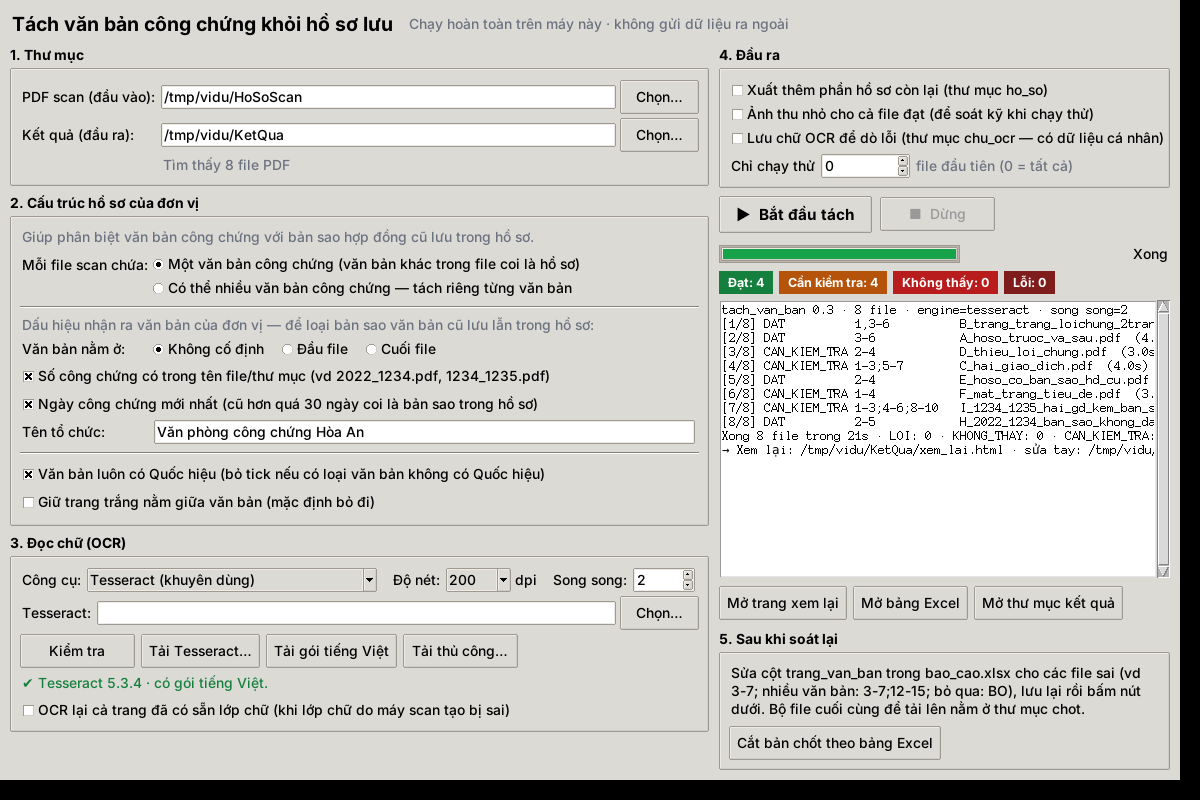
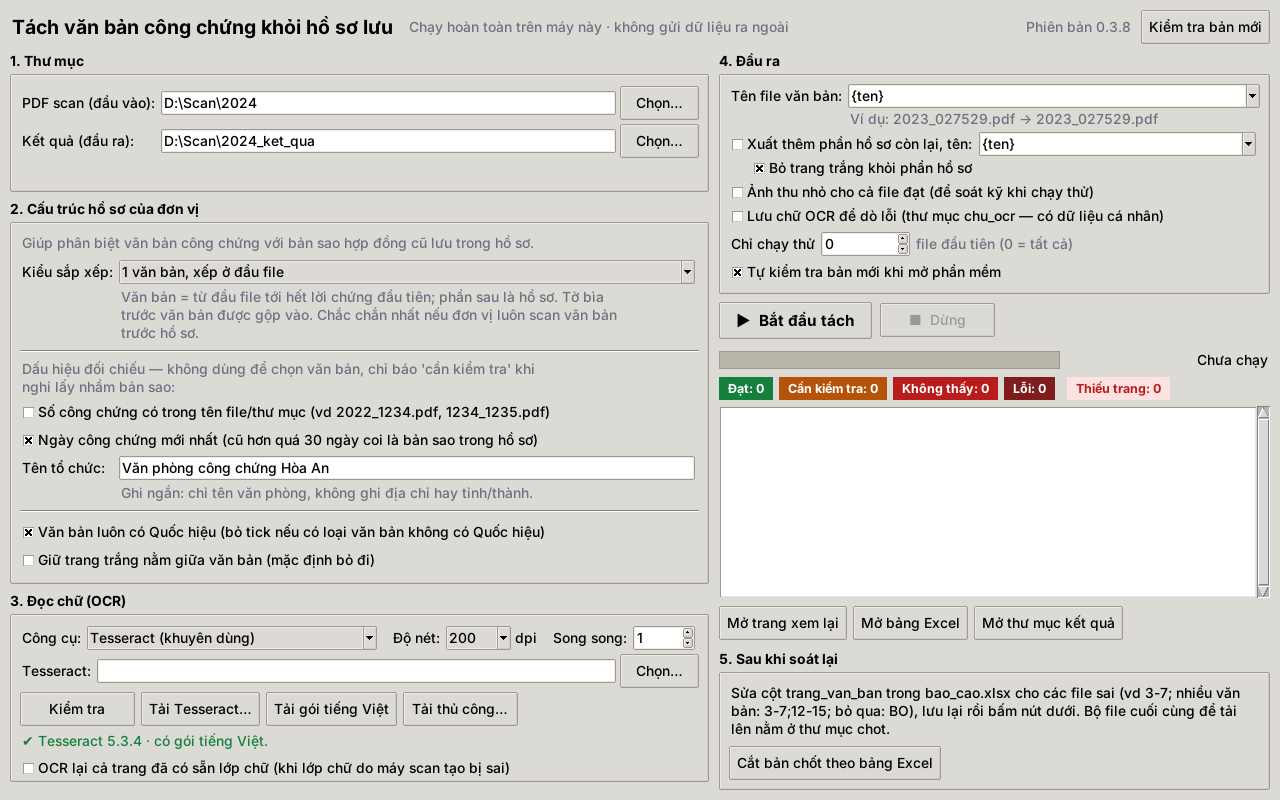
Chọn "kiểu sắp xếp" thay cho hai tuỳ chọn rời; nhiều văn bản ở đầu/cuối cắt theo ranh giới
- Giao diện: một ô "Kiểu sắp xếp" với 6 kiểu (1/nhiều văn bản × đầu file /
  cuối file / chấm điểm), kèm mô tả cách cắt của từng kiểu; dòng dấu hiệu đổi
  theo kiểu (chấm điểm hay chỉ đối chiếu). Cấu hình cũ tự khớp sang kiểu tương
  ứng, CLI giữ nguyên
- Nhiều văn bản + đầu file: giữ mọi văn bản từ đầu file tới trang hồ sơ rõ ràng
  đầu tiên, sau đó là hồ sơ (trước đây chỉ ±2 điểm; trang mờ/ít chữ xen giữa
  có thể làm mất văn bản thật). Cuối file: ngược lại. Trang lẻ không lời chứng
  ngay trước văn bản được gộp như tờ bìa
- Đối chiếu: văn bản giữ mà có dấu hiệu bản sao, hoặc văn bản bỏ mà số CC khớp
  tên file -> cần kiểm tra
- Tự kiểm tra thêm kiểu nhiều văn bản ở đầu file; cập nhật hướng dẫn, ảnh giao diện

Claude-Session: https://claude.ai/code/session_01XfeXJAduiAykSQTqQvTMCU

diff --git a/giao_dien.py b/giao_dien.py
@@ -31,6 +31,31 @@ F_CAU_HINH = Path.home() / ".tach_van_ban_cauhinh.json"
 
 ENGINE = {"Tesseract (khuyên dùng)": "tesseract", "Screen AI của Chrome (thử nghiệm)": "screenai"}
 VI_TRI = {"Không cố định": "tu_dong", "Đầu file": "dau", "Cuối file": "cuoi"}
+# Kiểu sắp xếp hồ sơ = (mỗi file một/nhiều văn bản, vị trí văn bản), kèm mô tả cách cắt
+KIEU_SAP_XEP = {
+    "1 văn bản, xếp ở đầu file": (
+        "mot", "Đầu file",
+        "Văn bản = từ đầu file tới hết lời chứng đầu tiên; phần sau là hồ sơ. Tờ bìa trước văn bản được gộp vào. "
+        "Chắc chắn nhất nếu đơn vị luôn scan văn bản trước hồ sơ."),
+    "Nhiều văn bản, xếp liền nhau ở đầu file": (
+        "nhieu", "Đầu file",
+        "Giữ mọi văn bản từ đầu file cho tới trang hồ sơ rõ ràng đầu tiên (phiếu yêu cầu, CCCD, sổ đỏ, bản sao…); "
+        "từ đó trở xuống là hồ sơ. Mỗi văn bản ra 1 file (…__vb1, …__vb2)."),
+    "1 văn bản, xếp ở cuối file": (
+        "mot", "Cuối file",
+        "Văn bản = văn bản có lời chứng cuối cùng; phía trước là hồ sơ."),
+    "Nhiều văn bản, xếp liền nhau ở cuối file": (
+        "nhieu", "Cuối file",
+        "Giữ mọi văn bản từ cuối file ngược lên tới trang hồ sơ rõ ràng gần nhất; phía trước là hồ sơ."),
+    "1 văn bản, vị trí không cố định (chấm điểm)": (
+        "mot", "Không cố định",
+        "Không biết văn bản nằm đâu: chấm điểm theo các dấu hiệu bên dưới để chọn 1 văn bản chính, các văn bản "
+        "khác để ở hồ sơ."),
+    "Nhiều văn bản, xếp xen kẽ với hồ sơ (chấm điểm)": (
+        "nhieu", "Không cố định",
+        "Văn bản và hồ sơ xen kẽ (VB1, hồ sơ 1, VB2…): chấm điểm theo các dấu hiệu bên dưới, giữ văn bản của đơn "
+        "vị, loại bản sao văn bản cũ lưu trong hồ sơ."),
+}
 MAU_VB = ["{ten}", "{ten}_VB", "{nam}_{so_cc}", "{nam}_{so_cc}_{loai}", "{so_cc}_{loai}", "{ngay}_{so_cc}"]
 MAU_HS = ["{ten}", "{ten}_HS", "{nam}_{so_cc}_HS", "{so_cc}_HS"]
 NHAN_TT = {"DAT": ("Đạt", "#15803d"), "CAN_KIEM_TRA": ("Cần kiểm tra", "#b45309"),
@@ -110,6 +135,7 @@ class UngDung(tk.Tk):
             vao=tk.StringVar(), ra=tk.StringVar(),
             mot_van_ban=tk.StringVar(value="mot" if md["mot_van_ban"] else "nhieu"),
             vi_tri=tk.StringVar(value="Không cố định"),
+            kieu_sap_xep=tk.StringVar(),  # chỉ để hiển thị: suy ra từ mot_van_ban + vi_tri
             so_cc_trong_ten=tk.BooleanVar(value=md["so_cc_trong_ten"]),
             uu_tien_ngay_moi=tk.BooleanVar(value=md["uu_tien_ngay_moi"]),
             ten_to_chuc=tk.StringVar(value=md["ten_to_chuc"]),
@@ -203,35 +229,21 @@ class UngDung(tk.Tk):
         ttk.Label(f, text="Giúp phân biệt văn bản công chứng với bản sao hợp đồng cũ lưu trong hồ sơ.",
                   style="Goiy.TLabel").grid(row=0, column=0, columnspan=3, sticky="w", pady=(0, 4))
 
-        ttk.Label(f, text="Mỗi file scan chứa:").grid(row=1, column=0, sticky="nw", pady=2)
-        r = ttk.Frame(f)
-        r.grid(row=1, column=1, columnspan=2, sticky="w")
-        a = ttk.Radiobutton(r, text="Một văn bản công chứng (văn bản khác trong file coi là hồ sơ)",
-                            variable=self.v["mot_van_ban"], value="mot")
-        a.pack(anchor="w")
-        b = ttk.Radiobutton(r, text="Có thể nhiều văn bản công chứng — tách riêng từng văn bản",
-                            variable=self.v["mot_van_ban"], value="nhieu")
-        b.pack(anchor="w")
-        GoiY(a, "Thường gặp: 1 file = 1 số công chứng. Nếu file có nhiều văn bản, công cụ chấm điểm theo các "
-                "dấu hiệu bên dưới để chọn 1 văn bản chính; phần còn lại để ở hồ sơ.")
-        GoiY(b, "Dùng khi đơn vị scan nhiều giao dịch vào chung 1 file. Mỗi văn bản được cắt thành file riêng "
-                "(…__vb1.pdf, …__vb2.pdf). Văn bản có dấu hiệu là bản sao lưu trong hồ sơ (theo các ô bên dưới) "
-                "bị loại ra.")
-
-        ttk.Separator(f).grid(row=2, column=0, columnspan=3, sticky="ew", pady=6)
-        ttk.Label(f, text="Dấu hiệu nhận ra văn bản của đơn vị — để loại bản sao văn bản cũ lưu lẫn trong hồ sơ:",
-                  style="Goiy.TLabel").grid(row=3, column=0, columnspan=3, sticky="w")
-        ttk.Label(f, text="Văn bản nằm ở:").grid(row=4, column=0, sticky="w", pady=2)
-        r = ttk.Frame(f)
-        r.grid(row=4, column=1, columnspan=2, sticky="w")
-        for ten in VI_TRI:
-            w = ttk.Radiobutton(r, text=ten, variable=self.v["vi_tri"], value=ten)
-            w.pack(side="left", padx=(0, 12))
-            GoiY(w, "Một văn bản/file + Đầu file: văn bản = từ đầu file tới hết lời chứng đầu tiên, phần sau là hồ sơ "
-                    "(Cuối file: văn bản có lời chứng cuối cùng). Cách chắc nhất nếu đơn vị luôn scan văn bản trước.\n"
-                    "Nhiều văn bản/file: chỉ giữ các văn bản xếp liền nhau ở đầu (hoặc cuối) file; văn bản nằm sau "
-                    "trang hồ sơ bị coi là bản sao. Chỉ chọn khi đơn vị luôn xếp hết văn bản lên trước (hoặc ra sau) "
-                    "hồ sơ — nếu xếp xen kẽ (VB1, hồ sơ 1, VB2, hồ sơ 2) thì để Không cố định.")
+        ttk.Label(f, text="Kiểu sắp xếp:").grid(row=1, column=0, sticky="w", pady=2)
+        cb = ttk.Combobox(f, textvariable=self.v["kieu_sap_xep"], values=list(KIEU_SAP_XEP), state="readonly")
+        cb.grid(row=1, column=1, columnspan=2, sticky="ew", padx=4, pady=2)
+        cb.bind("<<ComboboxSelected>>", self._chon_kieu_sap_xep)
+        GoiY(cb, "Đơn vị xếp văn bản và hồ sơ trong file scan thế nào. Biết chắc văn bản luôn ở đầu (hoặc cuối) "
+                 "file thì chọn kiểu đó: công cụ chỉ cần tìm ranh giới văn bản / hồ sơ, chính xác hơn chấm điểm. "
+                 "Không chắc hoặc xếp xen kẽ thì chọn kiểu chấm điểm.")
+        self.lb_kieu = ttk.Label(f, text="", style="Goiy.TLabel", wraplength=520, justify="left")
+        self.lb_kieu.grid(row=2, column=1, columnspan=2, sticky="w", padx=4)
+        ttk.Separator(f).grid(row=3, column=0, columnspan=3, sticky="ew", pady=6)
+        self.lb_dau_hieu = ttk.Label(f, text="", style="Goiy.TLabel", wraplength=540, justify="left")
+        self.lb_dau_hieu.grid(row=4, column=0, columnspan=3, sticky="w")
+        for k in ("mot_van_ban", "vi_tri"):
+            self.v[k].trace_add("write", lambda *a: self._hien_kieu_sap_xep())
+        self._hien_kieu_sap_xep()
         w = ttk.Checkbutton(f, text="Số công chứng có trong tên file/thư mục (vd 2022_1234.pdf, 1234_1235.pdf)",
                             variable=self.v["so_cc_trong_ten"])
         w.grid(row=5, column=0, columnspan=3, sticky="w", pady=2)
@@ -259,6 +271,22 @@ class UngDung(tk.Tk):
         w = ttk.Checkbutton(f, text="Giữ trang trắng nằm giữa văn bản (mặc định bỏ đi)", variable=self.v["giu_trang_trang"])
         w.grid(row=11, column=0, columnspan=3, sticky="w", pady=2)
         GoiY(w, "Bật nếu cần giữ đúng số tờ như bản scan (vd scan 2 mặt có mặt sau trắng).")
+
+    def _chon_kieu_sap_xep(self, _e=None):
+        mot, vi_tri, _ = KIEU_SAP_XEP[self.v["kieu_sap_xep"].get()]
+        self.v["mot_van_ban"].set(mot)
+        self.v["vi_tri"].set(vi_tri)
+
+    def _hien_kieu_sap_xep(self):
+        hien = (self.v["mot_van_ban"].get(), self.v["vi_tri"].get())
+        ten = next((k for k, (m, vt, _) in KIEU_SAP_XEP.items() if (m, vt) == hien), "")
+        self.v["kieu_sap_xep"].set(ten)
+        self.lb_kieu.config(text=KIEU_SAP_XEP[ten][2] if ten else "")
+        cham_diem = hien[1] == "Không cố định"
+        self.lb_dau_hieu.config(text=(
+            "Dấu hiệu nhận ra văn bản của đơn vị — dùng để chấm điểm, loại bản sao văn bản cũ lưu lẫn trong hồ sơ:"
+            if cham_diem else
+            "Dấu hiệu đối chiếu — không dùng để chọn văn bản, chỉ báo 'cần kiểm tra' khi nghi lấy nhầm bản sao:"))
 
     def _khung_ocr(self, cha):
         f = ttk.LabelFrame(cha, text="3. Đọc chữ (OCR)", padding=8)
@@ -765,7 +793,7 @@ class UngDung(tk.Tk):
         except (OSError, ValueError):
             return
         for k, gt in d.items():
-            if k in self.v:
+            if k in self.v and k != "kieu_sap_xep":
                 try:
                     self.v[k].set(gt)
                 except tk.TclError:
@@ -824,6 +852,13 @@ def tu_kiem_tra(thu_muc: str) -> int:
         nhat_ky.append(f"Văn bản ở đầu file: C={vb_dau.get('C')}, I={vb_dau.get('I')}, A={vb_dau.get('A')}")
         if vb_dau.get("C") != ("DAT", "1-3") or vb_dau.get("I") != ("DAT", "1-3") or vb_dau.get("A") != ("DAT", "3-6"):
             thieu.append(f"tuỳ chọn văn bản ở đầu file: {vb_dau}")
+        # "Nhiều văn bản xếp liền nhau ở đầu file": giữ các văn bản tới trang hồ sơ rõ ràng đầu tiên
+        kq_nd = tvb.chay_tach(goc / "scan", goc / "ket_qua", dict(cfg, vi_tri="dau", mot_van_ban=False),
+                              so_luong=2, log=lambda s: None)
+        vb_nd = {r["duong_dan"][0]: (r["trang_thai"], r["trang_van_ban"]) for r in kq_nd}
+        nhat_ky.append(f"Nhiều văn bản ở đầu file: I={vb_nd.get('I')}, C={vb_nd.get('C')}, E={vb_nd.get('E')}")
+        if vb_nd.get("I") != ("DAT", "1-3;4-6") or vb_nd.get("C") != ("DAT", "1-3") or vb_nd.get("E") != ("DAT", "2-4"):
+            thieu.append(f"kiểu nhiều văn bản ở đầu file: {vb_nd}")
         dat = len(kq) == 17 and not loi and not thieu and not sai_trang
         if sai_trang:
             thieu.append(f"kiểm tra số trang sai ở {sai_trang}")

diff --git a/tach_van_ban.py b/tach_van_ban.py
@@ -507,6 +507,40 @@ def cat_theo_vi_tri(doan: list[dict], trang: list[dict], vt: str) -> tuple[int, 
     return k, tt, cb
 
 
+def khoi_theo_vi_tri(doan: list[dict], trang: list[dict], vt: str) -> tuple[list[int], list[str]]:
+    """Chế độ nhiều văn bản + các văn bản xếp liền nhau ở đầu (hoặc cuối) file: giữ mọi văn bản từ đầu file cho
+    tới trang hồ sơ RÕ RÀNG đầu tiên (phiếu yêu cầu, CCCD, sổ đỏ, bản sao…) nằm sau một văn bản; từ đó trở đi là
+    hồ sơ. Trang hồ sơ rõ ràng ở đầu file (trước văn bản đầu tiên) không tính là ranh giới.
+    Văn bản chỉ có 1 trang và không có lời chứng nằm ngay trước văn bản kế tiếp được gộp vào đó (tờ bìa).
+    Sửa doan tại chỗ; trả (chỉ số các văn bản giữ, thông tin)."""
+    n = len(doan)
+    thu_tu = list(range(n)) if vt == "dau" else list(range(n - 1, -1, -1))
+    giu = [thu_tu[0]]
+    for a, b in zip(thu_tu, thu_tu[1:]):
+        tu, toi = sorted((max(doan[a]["trang"]), min(doan[b]["trang"]))) if vt == "dau" else \
+            sorted((max(doan[b]["trang"]), min(doan[a]["trang"])))
+        if any(trang[i]["nhan"] == "HS" and trang[i]["manh"] for i in range(tu + 1, toi)):
+            break
+        giu.append(b)
+    giu.sort()
+    # tờ bìa / trang tiêu đề lẻ không có lời chứng -> gộp vào văn bản ngay sau
+    for x, y in zip(giu, giu[1:]):
+        d = doan[x]
+        if not d["co_lc"] and sum(trang[i]["nhan"] != "TT" for i in d["trang"]) == 1 and doan[y].get("bia") is None:
+            b = min(i for i in d["trang"] if trang[i]["nhan"] != "TT")
+            doan[y]["trang"] = sorted(set(doan[y]["trang"]) | {b})
+            doan[y]["bia"] = b
+            doan[y]["co_md"] = doan[y]["co_md"] or trang[b]["nhan"] == "MD"
+            trang[b].update(bia=True, ly_do="trang lẻ nằm trước văn bản (coi như tờ bìa)")
+            d["trang"] = []
+    giu = [k for k in giu if doan[k]["trang"]]
+    tt = []
+    if len(giu) < n:
+        tt.append(f"theo kiểu 'nhiều văn bản ở {'đầu' if vt == 'dau' else 'cuối'} file': giữ {len(giu)} văn bản liền "
+                  f"nhau, {n - len(giu)} văn bản {'sau' if vt == 'dau' else 'trước'} trang hồ sơ coi là hồ sơ")
+    return giu, tt
+
+
 def chon_van_ban_chinh(doan, diem):
     """Chế độ 1 văn bản/file: LUÔN chọn đúng 1 văn bản. Trả (chọn, tổng điểm, chắc chắn?).
     Văn bản đủ tiêu đề + lời chứng được ưu tiên tuyệt đối (văn bản thiếu lời chứng thường là tờ bìa, bản sao lẻ
@@ -1015,7 +1049,26 @@ def xu_ly_file(duong_dan: str, rel: str, cfg: dict) -> dict:
                                     f"là bản sao ({', '.join(xau)}), còn văn bản tr.{khoang(doan[tot]['trang'])} "
                                     f"thì {', '.join(diem[tot][1]) or 'không'} — cần xem lại")
             doan, info = [doan[k]], [info[k]]
-        if len(doan) > 1:
+        elif not cfg["mot_van_ban"] and cfg.get("vi_tri") in ("dau", "cuoi") and len(doan) > 1:
+            giu, tt = khoi_theo_vi_tri(doan, trang, cfg["vi_tri"])
+            thong_tin += tt
+            # đối chiếu: văn bản giữ mà dấu hiệu chỉ là bản sao, hoặc văn bản bỏ mà số CC khớp tên file -> xem lại
+            diem = cham_diem_doan(doan, info, trang, rel, dict(cfg, vi_tri="tu_dong"))
+            for k in giu:
+                xau = [x for x in diem[k][1] if "không" in x or "khác" in x or "cũ hơn" in x]
+                if xau and diem[k][0] < 0:
+                    canh_bao.append(f"văn bản tr.{khoang(doan[k]['trang'])} có dấu hiệu là bản sao "
+                                    f"({', '.join(xau)}) — cần xem lại")
+            for k in range(len(doan)):
+                if k not in giu and doan[k]["trang"] and any("khớp tên file" in x for x in diem[k][1]):
+                    canh_bao.append(f"văn bản tr.{khoang(doan[k]['trang'])} nằm sau trang hồ sơ nhưng số CC khớp "
+                                    "tên file, chưa lấy — cần xem lại")
+            doan, info = [doan[k] for k in giu], [info[k] for k in giu]
+            if len(doan) > 1:
+                thong_tin.append(f"giữ {len(doan)} văn bản: " + "; ".join(
+                    f"VB{j+1} tr.{khoang(d['trang'])}" + (f" {mo_ta_doan(info[j])}" if mo_ta_doan(info[j]) else "")
+                    for j, d in enumerate(doan)))
+        if len(doan) > 1 and not (not cfg["mot_van_ban"] and cfg.get("vi_tri") in ("dau", "cuoi")):
             diem = cham_diem_doan(doan, info, trang, rel, cfg)
 
             def ten(k):
@@ -1859,7 +1912,7 @@ def main():
     g.add_argument("--nhieu-van-ban", action="store_true",
                    help="1 file có thể chứa nhiều văn bản công chứng (mặc định: chỉ 1, văn bản khác coi là hồ sơ)")
     g.add_argument("--vi-tri", choices=["tu_dong", "dau", "cuoi"], default="tu_dong",
-                   help="văn bản chính thường nằm ở đầu/cuối file")
+                   help="văn bản luôn xếp ở đầu/cuối file: cắt theo ranh giới văn bản / hồ sơ thay vì chấm điểm")
     g.add_argument("--so-cc-trong-ten", action="store_true", help="tên file/thư mục chứa số công chứng")
     g.add_argument("--ten-to-chuc", default="", help="tên tổ chức hành nghề công chứng của mình")
     g.add_argument("--khong-uu-tien-ngay", action="store_true", help="không dùng ngày công chứng để chọn văn bản chính")

diff --git a/HUONG_DAN.md b/HUONG_DAN.md
@@ -95,33 +95,30 @@ Cấu hình được lưu tự động cho lần mở sau. Chạy lại cùng th
 
 ### Ý nghĩa các tuỳ chọn "Cấu trúc hồ sơ"
 
-**Mỗi file scan chứa:**
+**Kiểu sắp xếp** — đơn vị xếp văn bản và hồ sơ trong file scan thế nào:
 
-| Lựa chọn | Khi nào dùng |
-|---|---|
-| **Một văn bản công chứng** (mặc định) | Mỗi file tương ứng với một số công chứng. Nếu file có nhiều văn bản, công cụ chấm điểm và chọn **1 văn bản chính**. Các văn bản còn lại được coi là hồ sơ. |
-| **Có thể nhiều văn bản công chứng** | Đơn vị scan nhiều giao dịch vào chung một file. Mỗi văn bản được cắt thành file riêng (`…__vb1.pdf`, `…__vb2.pdf`). Văn bản nào có dấu hiệu là **bản sao lưu trong hồ sơ** thì bị loại. |
+| Kiểu | Cách cắt | CLI |
+|---|---|---|
+| **1 văn bản, xếp ở đầu file** | Văn bản = từ đầu file tới hết **lời chứng đầu tiên**; phần sau là hồ sơ. Tờ bìa / trang lẻ nằm trước văn bản được gộp vào (rồi đối chiếu số trang lời chứng). Trang hồ sơ rõ ràng ở đầu file (vd phiếu yêu cầu) được bỏ qua. | `--vi-tri dau` |
+| **Nhiều văn bản, xếp liền nhau ở đầu file** | Giữ mọi văn bản từ đầu file cho tới **trang hồ sơ rõ ràng đầu tiên** (phiếu yêu cầu, CCCD, sổ đỏ, bản sao có "sao y"…); từ đó trở xuống là hồ sơ. Trang mờ, trang ít chữ không tính là ranh giới. Mỗi văn bản ra 1 file (`…__vb1`, `…__vb2`). | `--nhieu-van-ban --vi-tri dau` |
+| **1 văn bản, xếp ở cuối file** | Văn bản = văn bản có lời chứng cuối cùng; phía trước là hồ sơ. | `--vi-tri cuoi` |
+| **Nhiều văn bản, xếp liền nhau ở cuối file** | Giữ mọi văn bản từ cuối file ngược lên tới trang hồ sơ rõ ràng gần nhất. | `--nhieu-van-ban --vi-tri cuoi` |
+| **1 văn bản, vị trí không cố định (chấm điểm)** (mặc định) | Chấm điểm theo các dấu hiệu bên dưới, chọn **đúng 1 văn bản chính**. | (mặc định) |
+| **Nhiều văn bản, xếp xen kẽ với hồ sơ (chấm điểm)** | VB1, hồ sơ 1, VB2, hồ sơ 2…: chấm điểm, giữ văn bản của đơn vị, loại bản sao văn bản cũ. | `--nhieu-van-ban` |
 
-**Dấu hiệu nhận ra văn bản của đơn vị.** Các dấu hiệu này dùng cho **cả hai chế độ** trên.
+Biết chắc đơn vị luôn xếp văn bản trước (hoặc sau) hồ sơ thì chọn kiểu **đầu file / cuối file**: công cụ chỉ cần tìm ranh giới, chính xác hơn chấm điểm. Không chắc, hoặc xếp xen kẽ, thì chọn kiểu **chấm điểm**. Xếp xen kẽ mà chọn "nhiều văn bản ở đầu file" thì chỉ lấy được các văn bản trước trang hồ sơ đầu tiên.
+
+**Dấu hiệu nhận ra văn bản của đơn vị.**
 
 | Dấu hiệu | Văn bản của đơn vị | Bản sao trong hồ sơ |
 |---|---|---|
 | **Số công chứng có trong tên file/thư mục** (ví dụ `2022/1234.pdf`, `1234_1235.pdf`) | số trong lời chứng khớp với tên file: **+6** | đọc được số nhưng không khớp: **−6** |
 | **Tên tổ chức** — **ghi ngắn**, chỉ tên văn phòng (ví dụ *Văn phòng công chứng Hòa An*), không ghi địa chỉ hay tỉnh/thành | lời chứng ghi đúng tên (chịu được OCR sai vài chữ): **+3** | lời chứng ghi rõ tên văn phòng hoặc phòng công chứng khác hẳn: **−3**. Không đọc được tên tổ chức nào thì không cộng không trừ |
 | **Ngày công chứng mới nhất** (mặc định bật) | cùng ngày hoặc gần ngày (không quá 30 ngày) với văn bản mới nhất trong file: **+2** | cũ hơn quá 30 ngày: **−2** |
-| **Văn bản nằm ở: Đầu / Cuối file** | xem giải thích dưới bảng | xem giải thích dưới bảng |
 
-Ý nghĩa của tuỳ chọn **vị trí**:
-
-- **Chế độ một văn bản + Đầu file:** không chấm điểm nữa mà chỉ tìm **ranh giới**: văn bản là từ đầu file tới hết **lời chứng đầu tiên**, phần sau là hồ sơ. Tờ bìa hay trang lẻ nằm trước văn bản được gộp vào (rồi đối chiếu số trang lời chứng như bình thường). Trang hồ sơ rõ ràng ở đầu file (vd phiếu yêu cầu) được bỏ qua. **Cuối file** thì ngược lại: văn bản là văn bản có lời chứng cuối cùng. Đây là cách chắc nhất nếu đơn vị luôn xếp văn bản trước (hoặc sau) hồ sơ.
-  - Nếu số công chứng, tên tổ chức hoặc ngày công chứng cho thấy văn bản lấy được là bản sao, còn một văn bản khác mới là của đơn vị, file vẫn bị báo cần kiểm tra.
-- **Chế độ nhiều văn bản:** chỉ giữ các văn bản **xếp liền nhau** ở đầu (hoặc cuối) file, được +2. Văn bản nằm sau một trang hồ sơ bị −2.
-- Nếu đơn vị xếp xen kẽ (VB1, hồ sơ 1, VB2, hồ sơ 2) thì chọn **Không cố định**.
-
-Cách quyết định:
-
-- **Một văn bản/file** (khi vị trí là *Không cố định*): luôn xuất **đúng 1 văn bản**. Văn bản có đủ tiêu đề và lời chứng được ưu tiên tuyệt đối; văn bản thiếu lời chứng (tờ bìa, bản sao lẻ trong hồ sơ) chỉ được chọn khi không còn văn bản nào đủ. Trong số các văn bản đủ, cộng điểm các dấu hiệu: dẫn trước văn bản thứ hai **từ 2 điểm trở lên** là chắc chắn. Nếu không, công cụ vẫn tạm chọn văn bản điểm cao nhất (bằng điểm thì lấy văn bản đứng trước), các văn bản khác để ở hồ sơ, và báo cần kiểm tra để bạn xem lại.
-- **Nhiều văn bản/file:**
+- **Kiểu đầu file / cuối file:** các dấu hiệu này **không dùng để chọn**, chỉ để đối chiếu. Văn bản lấy được mà có dấu hiệu là bản sao (lời chứng ghi tổ chức khác, ngày cũ hơn, số công chứng không khớp tên file), hoặc văn bản bị để ở hồ sơ mà số công chứng khớp tên file, thì file bị báo **cần kiểm tra**.
+- **Kiểu chấm điểm, 1 văn bản:** luôn xuất **đúng 1 văn bản**. Văn bản có đủ tiêu đề và lời chứng được ưu tiên tuyệt đối; văn bản thiếu lời chứng (tờ bìa, bản sao lẻ trong hồ sơ) chỉ được chọn khi không còn văn bản nào đủ. Trong số các văn bản đủ, dẫn trước văn bản thứ hai **từ 2 điểm trở lên** là chắc chắn. Nếu không, công cụ vẫn tạm chọn văn bản điểm cao nhất (bằng điểm thì lấy văn bản đứng trước), các văn bản khác để ở hồ sơ, và báo cần kiểm tra.
+- **Kiểu chấm điểm, nhiều văn bản:**
   - văn bản có tổng điểm **âm** bị loại vào hồ sơ;
   - văn bản có điểm **0 hoặc dương** được giữ;
   - nếu có văn bản được 0 điểm trong khi văn bản khác có dấu hiệu, văn bản đó bị đánh dấu cần kiểm tra;
